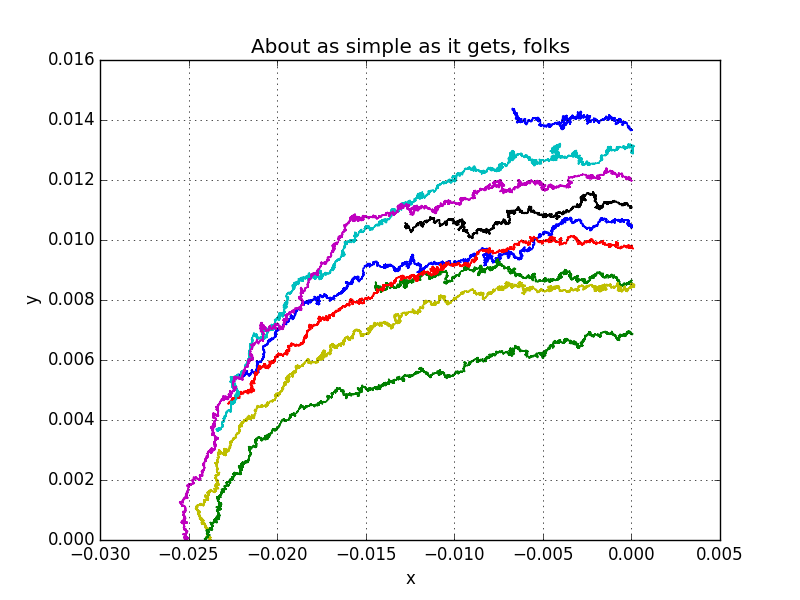
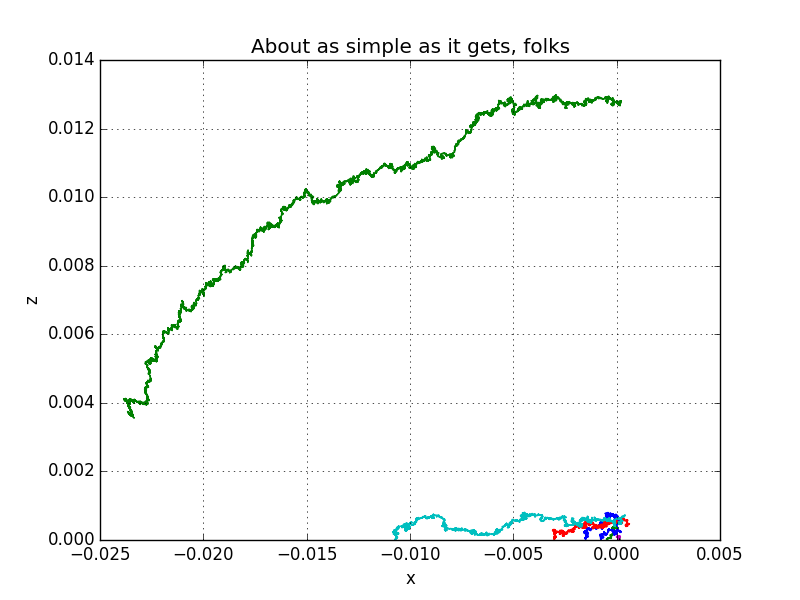
whatever dickheads

diff --git a/code/faims_lagrange_ellipsoid.py b/code/faims_lagrange_ellipsoid.py
@@ -105,11 +105,9 @@ def xyz2rmn(h2,h3,x,y,z):
     B = -c/2.0+a*b/6.0-a*a*a/27.0-np.lib.scimath.sqrt((a*a*a*c+b*b*b-a*a*b*b)/27.0+(9.0*c*c-6.0*a*b*c+a*a*b*b)/36.0)
     X = np.real(np.power(A,1.0/3.0))
     Y = np.imag(np.power(A,1.0/3.0)) 
-    print X, Y
     k1=-a/3.0+2.0*X
-    k2=-a/3.0-X-np.sqrt(Y)
-    k3=-a/3.0-X+np.sqrt(Y)
-    print k1,k2,k3
+    k2=-a/3.0-X-np.sqrt(3)*Y
+    k3=-a/3.0-X+np.sqrt(3)*Y
     rho = np.sqrt(k1)
     nu = np.sqrt(k2)
     mu = np.sqrt(k3)
@@ -129,7 +127,8 @@ def trans_temp(m_ion, v):
 def trans_diff(Tt, K, q):
     tmp = 1.0
     #print tmp, K
-    return BOLTZ*Tt*K*tmp/q      
+    return BOLTZ*Tt*K*tmp/q
+
 #Constants:
 flow = 10.*0.001/60 #m3/s
 re = 5e-4
@@ -152,12 +151,12 @@ numin=0#np.sqrt(1-re*re/(r2*r2-h3*h3))
 mumax=h2
 mumin=h3
 
-zmax = np.sqrt(rbar*rbar-h2*h2)+re
-zmin = np.sqrt(rbar*rbar-h2*h2)-re
+zmax = re+1e-4#np.sqrt(r2*r2-h3*h3)
+zmin = 1e-4#np.sqrt(r1*r1-h3*h3)
 ymax = re
-ymin = -re
-xmax = re
-xmin = -re
+ymin = 0
+xmax = rbar+re
+xmin = rbar-re
 #Init velocity: 
 v_entry = flow/PI/re/re
 D = 0.33 #fraction
@@ -199,9 +198,10 @@ with open('heavy.csv', 'rb') as fi:
                 z=np.random.uniform(zmin,zmax,1)
                 print x,y,z
                 rho[0], mu[0], nu[0] = xyz2rmn(h2,h3,x,y,z)
-                rho[0]=np.random.uniform(rmin,rmax,1)
-                mu[0]=np.random.uniform(mumin,mumax,1)
-                nu[0]=np.random.uniform(numin,numax,1)
+
+                #rho[0]=np.random.uniform(rmin,rmax,1)
+                #mu[0]=np.random.uniform(mumin,mumax,1)
+                #nu[0]=np.random.uniform(numin,numax,1)
                 print rho[0], mu[0], nu[0]
                 #Timestep
                 t0 = np.random.rand(1)*1/f
@@ -209,20 +209,23 @@ with open('heavy.csv', 'rb') as fi:
                 i=0
                 while(i<tres/delt-1):
                     if rho[i]>r2 or rho[i]<r1 or mu[i]*mu[i]<=h3*h3 or mu[i]*mu[i]>=h2*h2 or nu[i]>=h3 or np.isnan(rho[i]) or np.isnan(nu[i]) or np.isnan(mu[i]):
-                        print "Splat!", DV, CV, t, rho[i], nu[i]
+                        print "Splat!", DV, CV, t, rho[i], mu[i], nu[i]
                         x,y,z=rmn2xyz(h2,h3,rho[range(0,i+1,100)],mu[range(0,i+1,100)],nu[range(0,i+1,100)])
-                        plot(x,y)
+                        plot(x,z)
+                        axis([-r2,r2,0,r2])
                         xlabel('x')
-                        ylabel('y')
+                        ylabel('z')
+                        
                         title('About as simple as it gets, folks')
                         grid(True)
                         break
                     if nu[i]*nu[i]>h3*h3:
-                        print "Finished", DV, CV, t, rho[i], nu[i]
+                        print "Finished", DV, CV, t, rho[i], mu[i], nu[i]
                         x,y,z=rmn2xyz(h2,h3,rho[range(0,i+1,100)],mu[range(0,i+1,100)],nu[range(0,i+1,100)])
-                        plot(x,y )
+                        plot(x,z )
+                        axis([-r2,r2,0,r2])
                         xlabel('x')
-                        ylabel('y')
+                        ylabel('z')
                         title('About as simple as it gets, folks')
                         grid(True)
                         break
@@ -276,9 +279,15 @@ with open('heavy.csv', 'rb') as fi:
                 LV = -DV*D/(1-D)+CV
 
             #Init location:
-                rho[0]=np.random.uniform(rmin,rmax,1)
-                mu[0]=np.random.uniform(mumin,mumax,1)
-                nu[0]=np.random.uniform(numin,numax,1)
+                x=np.random.uniform(xmin,xmax,1)
+                y=np.random.uniform(ymin,ymax,1)
+                z=np.random.uniform(zmin,zmax,1)
+                print x,y,z
+                rho[0], mu[0], nu[0] = xyz2rmn(h2,h3,x,y,z)
+
+                #rho[0]=np.random.uniform(rmin,rmax,1)
+                #mu[0]=np.random.uniform(mumin,mumax,1)
+                #nu[0]=np.random.uniform(numin,numax,1)
                 print rho[0], mu[0], nu[0]
                 #Timestep
                 t0 = np.random.rand(1)*1/f
@@ -286,22 +295,24 @@ with open('heavy.csv', 'rb') as fi:
                 i=0
                 while(i<tres/delt-1):
                     if rho[i]>r2 or rho[i]<r1 or mu[i]*mu[i]<=h3*h3 or mu[i]*mu[i]>=h2*h2 or nu[i]>=h3 or np.isnan(rho[i]) or np.isnan(nu[i]) or np.isnan(mu[i]):
-                        print "Splat!", DV, CV, t, rho[i], nu[i]
+                        print "Splat!", DV, CV, t, rho[i], mu[i], nu[i]
                         x,y,z=rmn2xyz(h2,h3,rho[range(0,i+1,100)],mu[range(0,i+1,100)],nu[range(0,i+1,100)])
                         
-                        plot(x,y )
+                        plot(x,z )
+                        axis([-r2,r2,0,r2])
                         xlabel('x')
-                        ylabel('y')
+                        ylabel('z')
                         title('About as simple as it gets, folks')
                         grid(True)
                         break
                     if nu[i]<=-h3:
-                        print "Finished", DV, CV, t, rho[i], nu[i]
+                        print "Finished", DV, CV, t, rho[i], mu[i], nu[i]
                         x,y,z=rmn2xyz(h2,h3,rho[range(0,i+1,100)],mu[range(0,i+1,100)],nu[range(0,i+1,100)])
                         
-                        plot(x,y )
+                        plot(x,z )
+                        axis([-r2,r2,0,r2])
                         xlabel('x')
-                        ylabel('y')
+                        ylabel('z')
                         title('About as simple as it gets, folks')
                         grid(True)
                         break

diff --git a/code/faims_lagrange_ellipsoid_test.py b/code/faims_lagrange_ellipsoid_test.py
@@ -1,0 +1,186 @@
+import numpy as np
+import scipy.special as sp
+from mpl_toolkits.mplot3d import Axes3D
+import matplotlib.pyplot as plt
+from pylab import *
+import csv
+
+global N_AVOGADRO
+global MOL_VOLUME
+global AMU_TO_KG
+global PI
+global No
+global AMU_AIR
+global T_STP
+global BOLTZ
+global Q_E
+
+N_AVOGADRO   = 6.02214199e23         # Avogadro's number
+MOL_VOLUME   = 22.413996e-3          # Volume (m3) of one mol
+AMU_TO_KG    = 1.66053873e-27        # mass of one u in kg
+PI           = np.pi               # value of PI
+No = N_AVOGADRO/ MOL_VOLUME  
+AMU_AIR = 28.97
+T_STP = 273.15
+BOLTZ = 1.38064852e-23
+Q_E = 1.6021766208e-19
+
+def d_nm(mass_ion):
+    d_ion = 0.120415405 * np.power(mass_ion,(1/3))
+    return d_ion
+def K0(d_ion):
+    w=np.log10(d_ion)
+    A=4.9137-1.4491*w-0.2772*w*w+0.0717*w*w*w
+    return 1e-5*np.power(10,A)*1e-4
+def K(E,N,K0,a2,a4):
+    return K0*(1+a2*np.power(E/N*1e21,2)+a4*np.power(E/N*1e21,4))
+def rint2(h2,h3,rho, nu):
+    r=rho*rho-nu*nu
+    A=(h3*h3+h2*h2-2*nu*nu)/2*np.log(2*np.sqrt((r-h3*h3+nu*nu)*(r-h2*h2+nu*nu)))+2*r+2*nu*nu-h3*h3-h2*h2
+    B=np.sqrt((r-h3*h3+nu*nu)*(r-h2*h2+nu*nu))
+    return A+B
+def rint1(h2,h3,rho, nu):
+    r=rho*rho-nu*nu
+    return np.log(2*np.sqrt((r-h3*h3+nu*nu)*(r-h2*h2+nu*nu))+2*r+2*nu*nu-h3*h3+h2*h2)
+def uint1(h2,h3,mu, nu):
+    u=mu*mu-nu*nu
+    return np.arcsin((2*u+2*nu*nu-h3*h3-h2*h2)/(np.sqrt((h3*h3-h2*h2)*(h3*h3-h2*h2))))
+def uint2(h2,h3,mu, nu):
+    u=mu*mu-nu*nu
+    A=(2*nu*nu-h3*h3-h2*h2)*np.arcsin((2*u+2*nu*nu-h3*h3-h2*h2)/(np.sqrt((h3*h3-h2*h2)*(h3*h3-h2*h2))))
+    B=2*np.sqrt(np.abs((u-h3*h3+nu*nu)*(h2*h2+nu*nu-u)))
+    return -(A+B)/2	
+def vnu(r1,r2,h2,h3,rho,nu,flow):
+    A=rint2(h2,h3,r2, nu)-rint2(h2,h3,r1, nu)
+    B=rint1(h2,h3,r2, nu)-rint1(h2,h3,r1, nu)
+    C=uint2(h2,h3,h2, nu)-uint2(h2,h3,h3, nu)
+    D=uint1(h2,h3,h2, nu)-uint1(h2,h3,h3, nu)
+    AREA = 1./4.*(A*D-B*C)
+    return flow/AREA
+def vrho(K,E):
+    return K*E*1e-2
+def I01(rho,h2,h3):
+    phi=np.arcsin(h2/rho)
+    alpha=np.arcsin(h3/h2)
+    m=(np.sin(alpha))
+    m=m*m
+    return 1/h2*sp.ellipkinc(phi,m)
+
+def hrho(h2,h3,rho,mu,nu):
+    A=np.sqrt(rho*rho-mu*mu)*np.sqrt(rho*rho-nu*nu)
+    B=np.sqrt(rho*rho-h3*h3)*np.sqrt(rho*rho-h2*h2)
+    return A/B
+
+def hmu(h2,h3,rho,mu,nu):
+    A=np.sqrt(rho*rho-mu*mu)*np.sqrt(rho*rho-nu*nu)
+    B=np.sqrt(mu*mu-h3*h3)*np.sqrt(h2*h2-mu*mu)
+    return A/B
+
+def hnu(h2,h3,rho,mu,nu):
+    A=np.sqrt(rho*rho-mu*mu)*np.sqrt(rho*rho-nu*nu)
+    B=np.sqrt(h3*h3-nu*nu)*np.sqrt(h2*h2-nu*nu)
+    return A/B
+
+def eB(r1,r2,h2,h3):
+    B=-I01(r2,h2,h3)+I01(r1,h2,h3)
+    return B
+
+def E(eB,rho,mu,nu,V):
+    A=-V/np.sqrt(rho*rho-mu*mu)/np.sqrt(rho*rho-nu*nu)
+    B=eB#-I01(r2,h2,h3)+I01(r1,h2,h3)
+    return A/B
+
+def rmn2xyz(h2,h3,rho,mu,nu):
+    h1=np.sqrt(h2*h2-h3*h3)
+    x=rho*mu*nu/h2/h3
+    y=np.sqrt(rho*rho-h3*h3)*np.sqrt(mu*mu-h3*h3)*np.sqrt(h3*h3-nu*nu)/h1/h3
+    z=np.sqrt(rho*rho-h2*h2)*np.sqrt(h2*h2-mu*mu)*np.sqrt(h2*h2-nu*nu)/h1/h3
+    return x,y,z
+
+def xyz2rmn(h2,h3,x,y,z):
+    a = -(x*x+y*y+z*z+h3*h3+h2*h2)
+    b = (h3*h3+h2*h2)*x*x+h2*h2*y*y+h3*h3*z*z+h3*h3*h2*h2
+    c = -h3*h3*h2*h2*x*x
+    A = -c/2.0+a*b/6.0-a*a*a/27.0+np.lib.scimath.sqrt((a*a*a*c+b*b*b-a*a*b*b)/27.0+(9.0*c*c-6.0*a*b*c+a*a*b*b)/36.0)
+    B = -c/2.0+a*b/6.0-a*a*a/27.0-np.lib.scimath.sqrt((a*a*a*c+b*b*b-a*a*b*b)/27.0+(9.0*c*c-6.0*a*b*c+a*a*b*b)/36.0)
+    X = np.real(np.power(A,1.0/3.0))
+    Y = np.imag(np.power(A,1.0/3.0)) 
+    k1=-a/3.0+2.0*X
+    k2=-a/3.0-X-np.sqrt(3)*Y
+    k3=-a/3.0-X+np.sqrt(3)*Y
+    rho = np.sqrt(k1)
+    nu = np.sqrt(k2)
+    mu = np.sqrt(k3)
+    return rho, mu, nu
+
+def long_temp(m_ion, v):
+    return T_STP + (1+m_ion/(m_ion+AMU_AIR/2.0))*AMU_AIR*AMU_TO_KG*v*v/BOLTZ/3
+
+def long_diff(Tl, K, K0, E, N, a2, a4,q):
+    tmp = 1.0+((E/N*1e21)/K)*(K0*(2.0*a2*(E/N*1e21)+4.0*a4*np.power(E/N*1e21,3)))
+    #print tmp, K
+    return BOLTZ*Tl*K*tmp/q
+
+def trans_temp(m_ion, v):
+    return T_STP + (1-(m_ion/2.0)/(m_ion+AMU_AIR/2.0))*AMU_AIR*AMU_TO_KG*v*v/BOLTZ
+
+def trans_diff(Tt, K, q):
+    tmp = 1.0
+    #print tmp, K
+    return BOLTZ*Tt*K*tmp/q      
+#Constants:
+flow = 10.*0.001/60 #m3/s
+re = 5e-4
+A1 = 24e-3
+A2 = 12e-3
+A3 = 10e-3
+h2 = np.sqrt(np.power(A1,2)-np.power(A3,2))
+h3 = np.sqrt(np.power(A1,2)-np.power(A2,2))
+
+r1 = 24e-3
+r2 = 26e-3
+rbar = (r1+r2)/2.0
+B = eB(r1,r2,h2,h3)
+print B
+
+rmax=(r1+r2)/2+re
+rmin=(r1+r2)/2-re
+numax=0
+numin=0#np.sqrt(1-re*re/(r2*r2-h3*h3))
+mumax=h2
+mumin=h3
+
+#Init velocity: 
+v_entry = flow/PI/re/re
+D = 0.33 #fraction
+f = 0.5e6 #Hz
+tres=.3
+delt = 1/f/100 #s
+
+with open('heavy.csv', 'rb') as fi:
+    reader = csv.reader(fi)
+    for row in reader:
+        mass_ion = float(row[0])
+        d_ion = float(row[1])
+        k0 = 1e-4*float(row[2])
+        a2 = float(row[3])
+        a4 = float(row[4])
+        print row[5]  
+        if d_ion<0:
+            d_ion = d_nm(mass_ion)
+        if k0<0:
+            k0 = K0(d_ion)
+            #Init location:
+        for iMC in range(0,10):
+            rho=np.random.uniform(rmin,rmax,1)
+            mu=np.random.uniform(mumin,mumax,1)
+            nu=np.random.uniform(numin,numax,1)
+            print iMC, "r,m,n ", rho, mu, nu
+            x,y,z=rmn2xyz(h2,h3,rho,mu,nu)
+            print iMC, "x,y,z ", x,y,z
+            rho, mu, nu = xyz2rmn(h2,h3,x,y,z)
+            print iMC, "r,m,n ", rho, mu, nu
+            x,y,z=rmn2xyz(h2,h3,rho,mu,nu)
+            print iMC, "x,y,z ", x,y,z
+                        
+        

diff --git a/code/faims_lagrange_sphere.py b/code/faims_lagrange_sphere.py
@@ -121,6 +121,7 @@ with open('heavy.csv', 'rb') as fi:
                         print "Splat!", DV, CV, t, r[i], th[i]
                         x,y,z=rtp2xyz(r[range(0,i+1,100)],th[range(0,i+1,100)],phi[range(0,i+1,100)])
                         plot(x,y )
+                        axis([-ro, ro, 0, ro])
                         xlabel('x')
                         ylabel('y')
                         title('About as simple as it gets, folks')
@@ -131,6 +132,7 @@ with open('heavy.csv', 'rb') as fi:
                         x,y,z=rtp2xyz(r[range(0,i+1,100)],th[range(0,i+1,100)],phi[range(0,i+1,100)])
 
                         plot(x,y )
+                        axis([-ro, ro, 0, ro])
                         xlabel('x')
                         ylabel('y')
                         title('About as simple as it gets, folks')
@@ -197,6 +199,7 @@ with open('heavy.csv', 'rb') as fi:
                         x,y,z=rtp2xyz(r[range(0,i+1,100)],th[range(0,i+1,100)],phi[range(0,i+1,100)])
 
                         plot(x,y )
+                        axis([-ro, ro, 0, ro])
                         xlabel('x')
                         ylabel('y')
                         title('About as simple as it gets, folks')
@@ -207,6 +210,7 @@ with open('heavy.csv', 'rb') as fi:
                         print "Finished", DV, CV, t, r[i], th[i]
                         x,y,z=rtp2xyz(r[range(0,i+1,100)],th[range(0,i+1,100)],phi[range(0,i+1,100)])
                         plot(x,y )
+                        axis([-ro, ro, 0, ro])
                         xlabel('x')
                         ylabel('y')
                         title('About as simple as it gets, folks')
